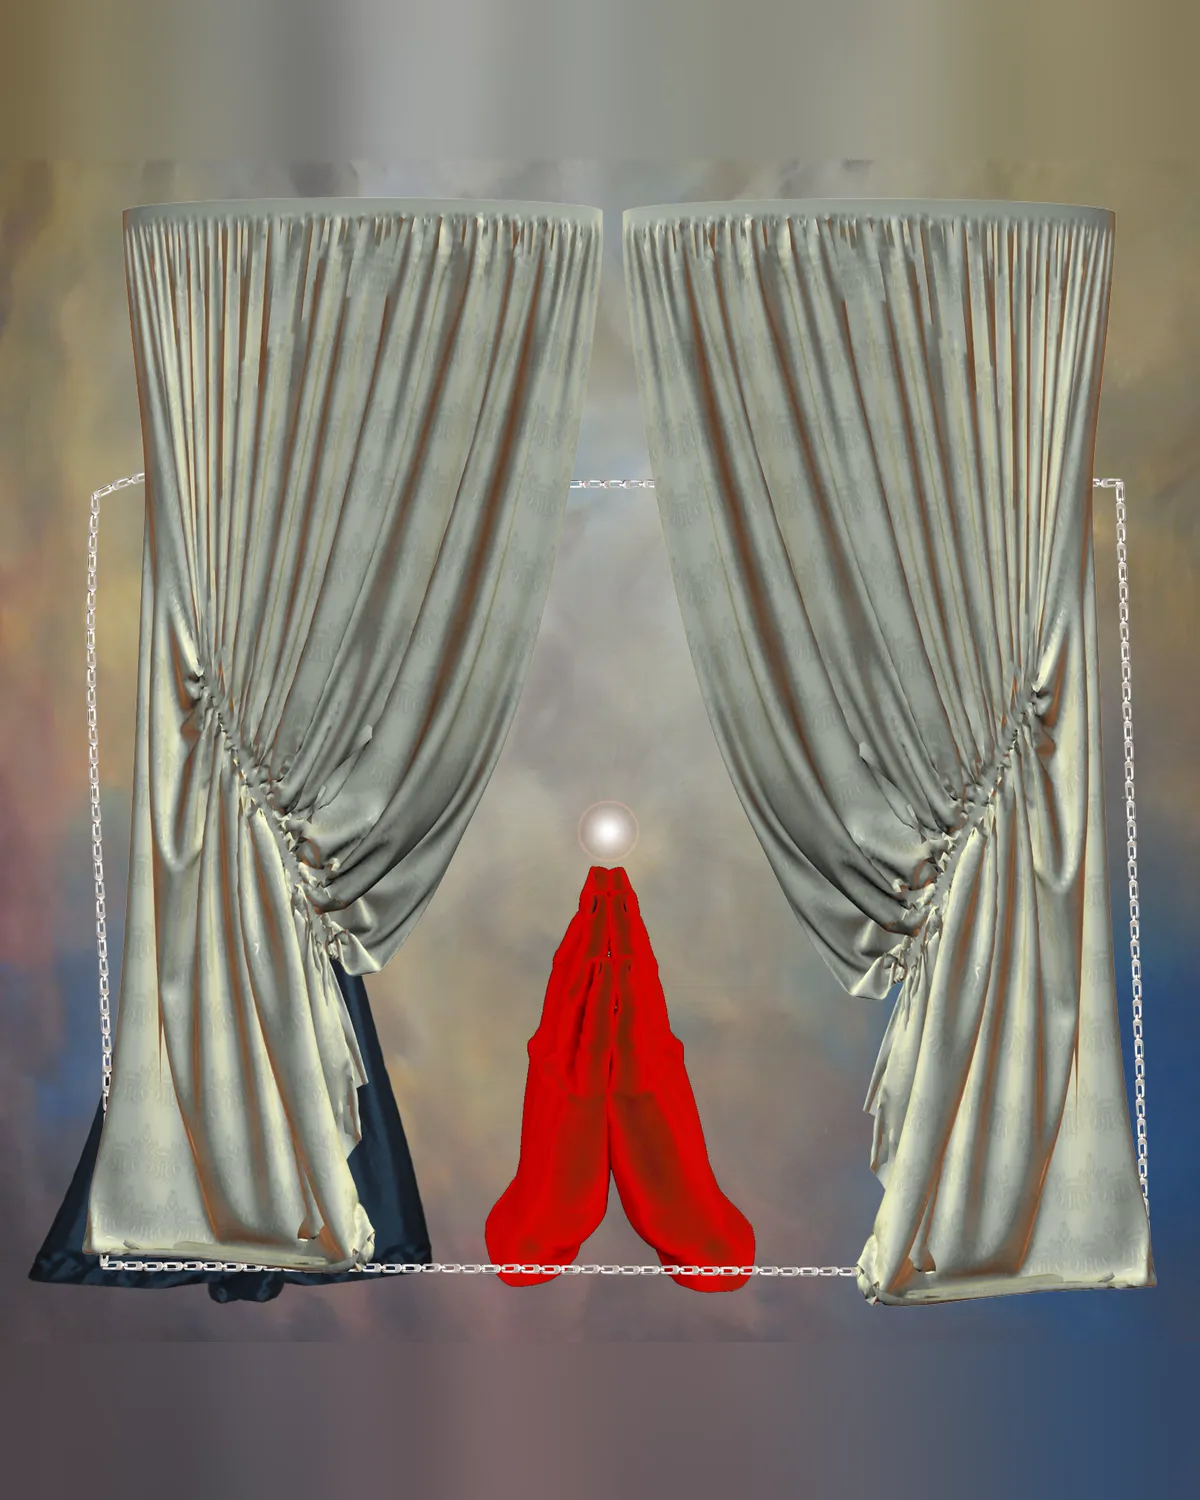
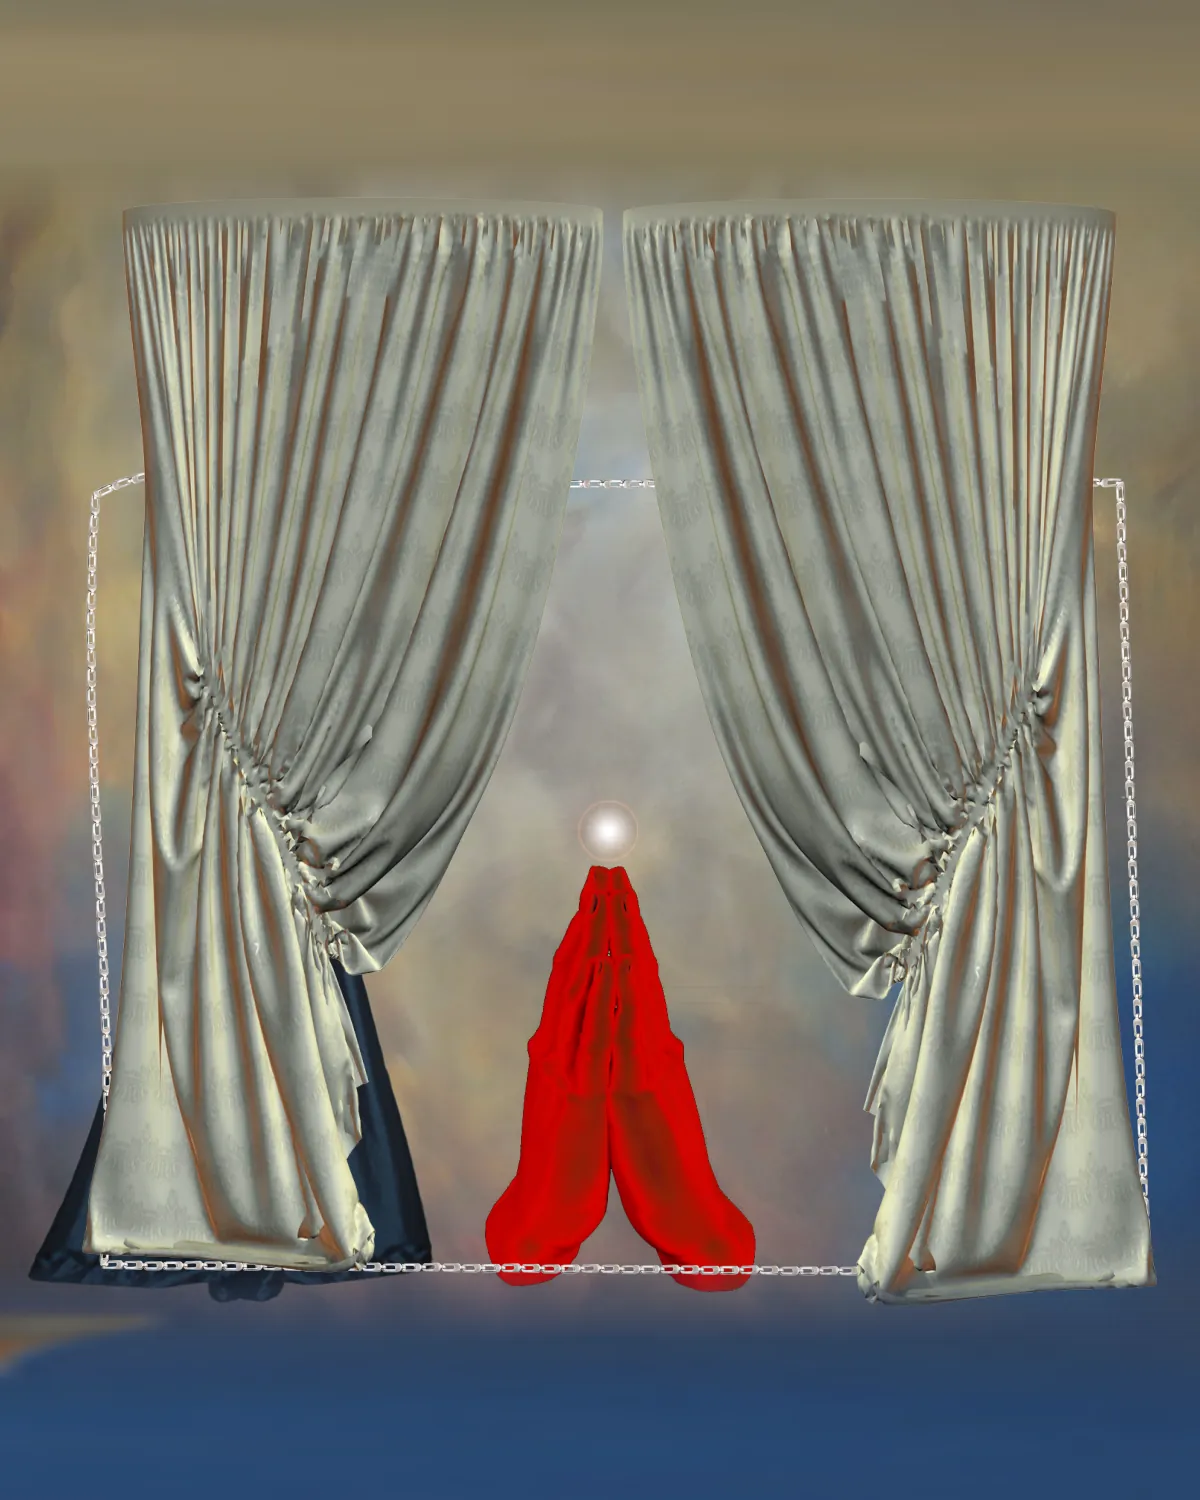
Lab: Una vez filled with its own painted sky, feathered in, no seam

diff --git a/src/outils/artwork.ts b/src/outils/artwork.ts
@@ -48,7 +48,7 @@ export const reel: Plate[] = [
   { id: "r12", url: L("fasemesa"), title: "Fase" },
   { id: "r13", url: L("amorsacro"), title: "Amorsacro", tech: "digital" },
   { id: "r14", url: `${L("lilo")}?v=2`, title: "Dos amantes" },
-  { id: "r15", url: `${L("single")}?v=2`, title: "Una vez" },
+  { id: "r15", url: `${L("single")}?v=3`, title: "Una vez" },
   { id: "r16", url: L("lerele"), title: "Corralones" },
 ];
 
